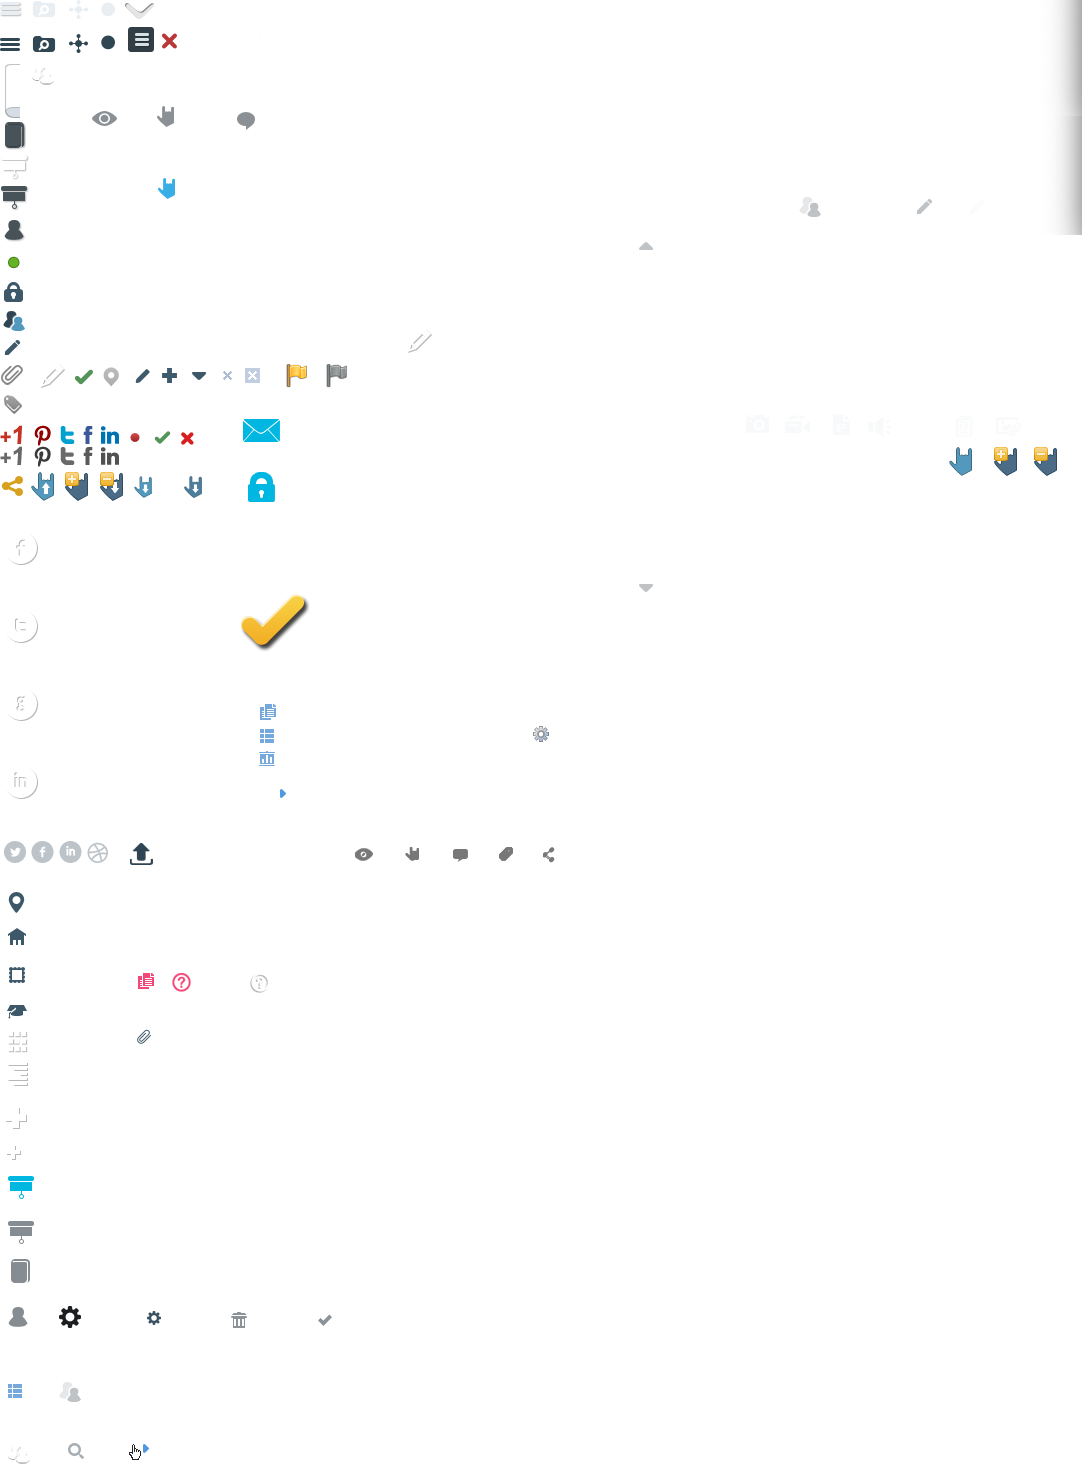
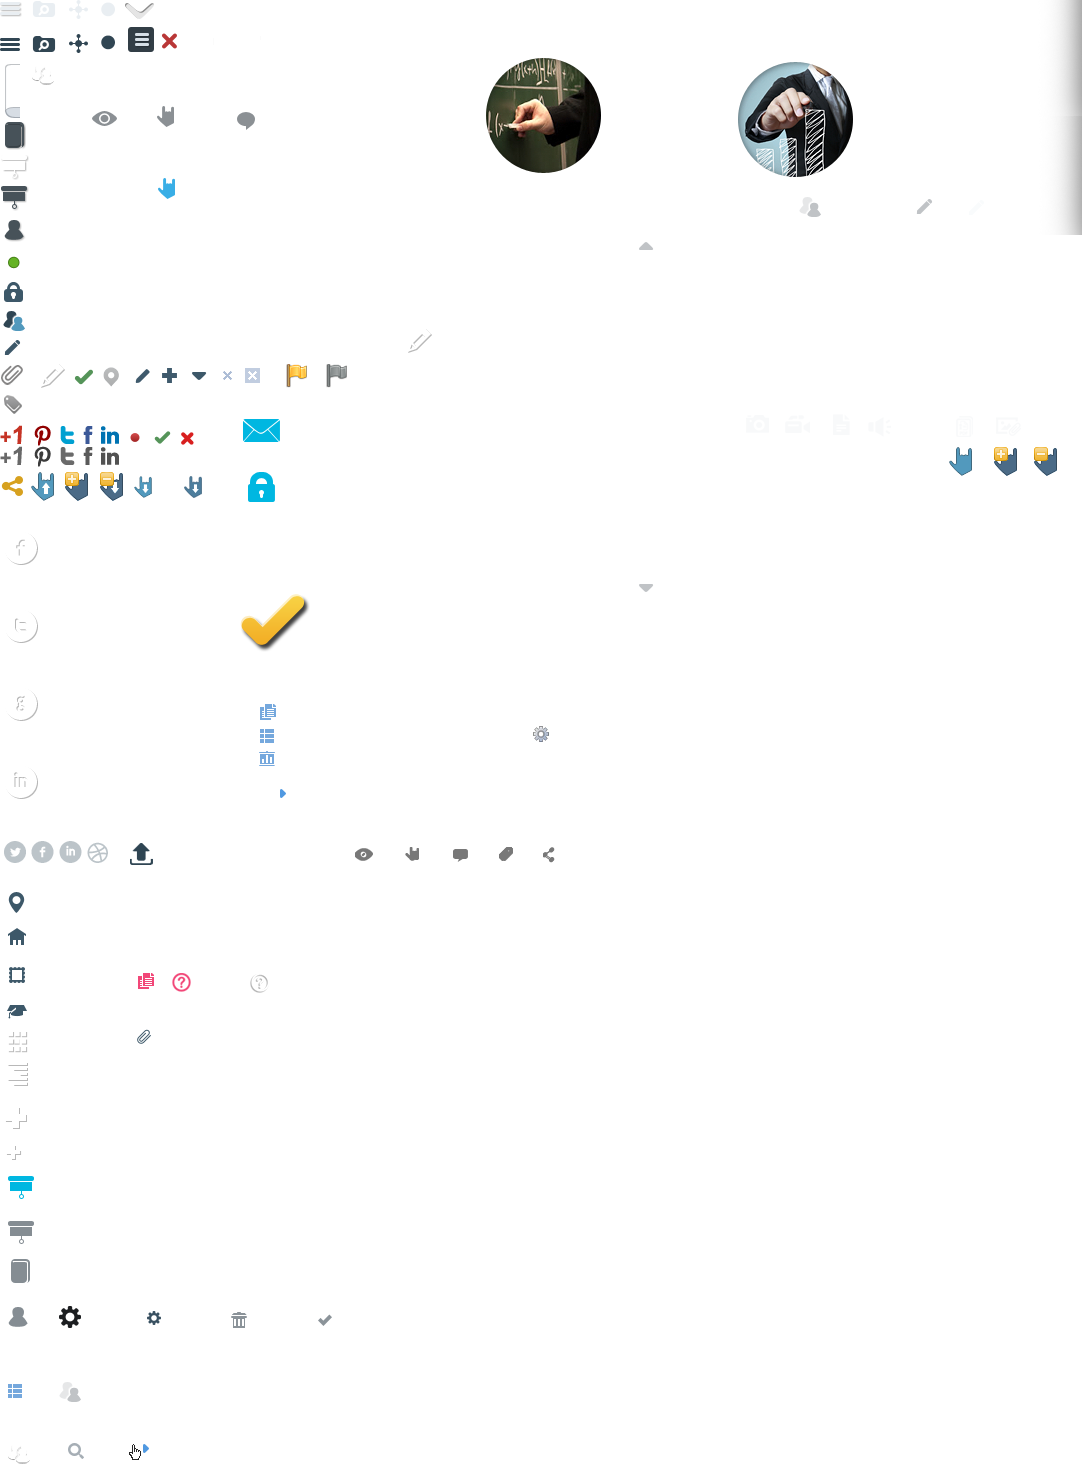
My Changes

Changed region(s): [[0.671, 0.0307, 0.793, 0.1226], [0.427, 0.0307, 0.5795, 0.1226]]

diff --git a/app/views/login.scala.html b/app/views/login.scala.html
@@ -37,22 +37,28 @@
         <div class="sign-up-conent">
           <div class="sign-up-whitebg">
             <ul class="sign-menu">
-              <li> <a href="#"> <span>I'm a Student</span>
-
-                <div class="menu-pic" id="0"><img src="/beamstream-new/images/student.png" width="115" height="115">
-
-	         <div class="sign-up-tick active"></div>
-
-              </div>
-                </a> <a href="#"> <span>I'm an Educator</span>
-                <div class="menu-pic" id="1"><img src="/beamstream-new/images/educator.jpg" width="115" height="115">
-               <div class="sign-up-tick"></div>
-               </div>
-                </a> <a href="#"> <span>I'm a Professional</span>
-                <div class="menu-pic" id="2"><img src="/beamstream-new/images/professional.jpg">
-                <div class="sign-up-tick"></div>
-               </div>
-                </a> </li>
+              <li> 
+								<a href="#"> <span>I'm a Student</span>
+                	<div class="menu-pic" id="0"><img src="/beamstream-new/images/student.png" width="115" height="115">
+										<div class="sign-up-tick active">
+										</div>
+									</div>
+                </a> 
+								<a href="#"> <span id="educator-title">I'm an Educator</span>
+                	<div class="menu-pic" id="1">
+										<div id="educator-icon">
+										</div>
+               			<div class="sign-up-tick">
+               			</div>
+           			  </div>
+                 </a> 
+								 <a href="#"> <span>I'm a Professional</span>
+                	 <div class="menu-pic" id="2"><img src="/beamstream-new/images/professional.jpg">
+                		 <div class="sign-up-tick">
+                		 </div>
+               		 </div>
+                 </a> 
+							 </li>
             </ul>
               <input type="hidden" value="0" id="usertype">
             <ul class="signup-register">

diff --git a/app/assets/stylesheets/cleanup.less b/app/assets/stylesheets/cleanup.less
@@ -10916,10 +10916,17 @@ color:#827e7e
 	padding: 1px 0 0 0;
 }
 
-#questions-icon, #questions-edit-gear-icon, #create-google-doc-popup, #rate-lecturer-question-icon, .new-google-btn .google-doc-icn, .new-google-btn .question-icn, .google-plus, .twitter, .facebook, .linkedin, .plus, .menu-arrow:active .menu-arrow:hover, #sort_by_key > span {
+#questions-icon, #questions-edit-gear-icon, #create-google-doc-popup, #rate-lecturer-question-icon, .new-google-btn .google-doc-icn, .new-google-btn .question-icn, .google-plus, .twitter, .facebook, .linkedin, .plus, .menu-arrow:active .menu-arrow:hover, #sort_by_key > span, #educator-icon  {
     background: url(../../beamstream-new/images/spryte.png) no-repeat;
 }
 
+/*registration icons */
+div#educator-icon {
+	width: 130px;
+	height: 120px;
+	margin-top: -76px;
+	background-position: -474px -58px;
+}
 
 #questions-edit-gear-icon {
 	width: 25px;

diff --git a/app/views/signup.scala.html b/app/views/signup.scala.html
@@ -81,7 +81,7 @@
                     <div class="sign-tick" style="display:none;"></div><div class="sign-close" style="display:none;"></div>
                   </fieldset>
                 </form>
-                <div class="register-menu-block"> <a href="#" id="registeration" class="register-btn"><span></span>Sign Up NOW</a><a href="#" class="register-cancel">Cancel</a> </div>
+                <div class="register-menu-block"> <a href="#" id="registeration" class="register-btn"><span></span>Sign Up Now</a><a href="#" class="register-cancel">Cancel</a> </div>
                 <div class="sign-or" style="display:none">or</div><!-- DH Remove commented code when ready -->
               </li>
               
